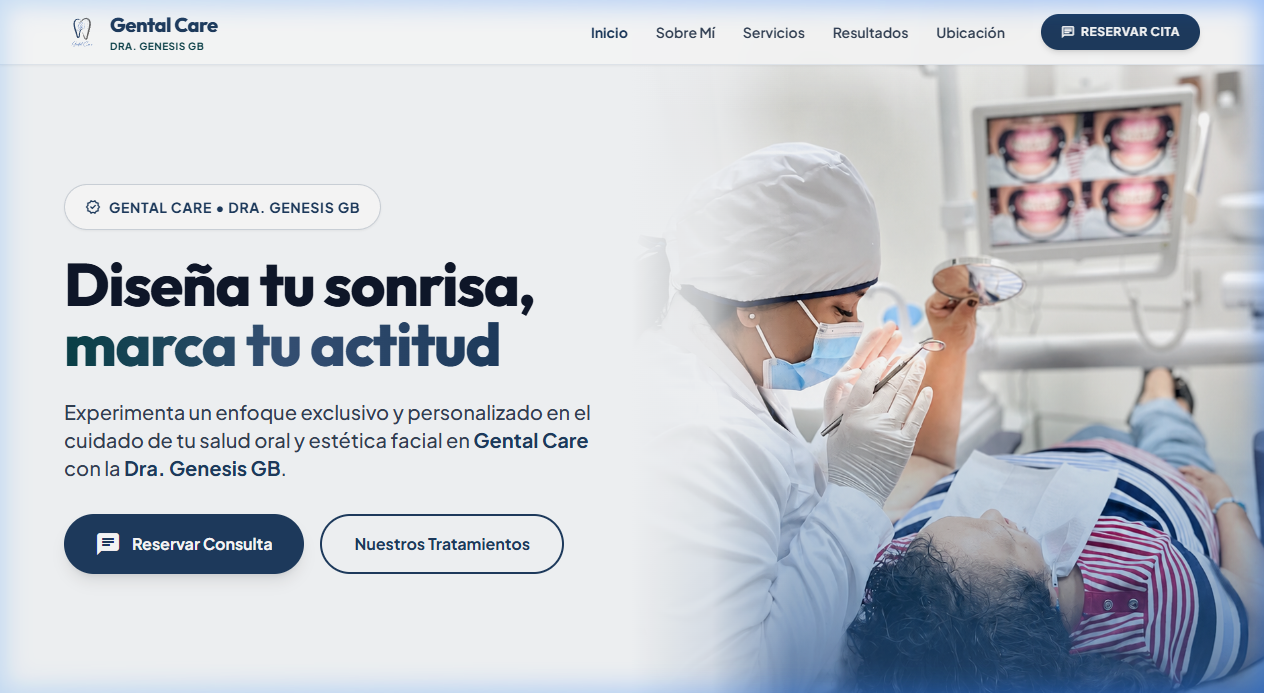
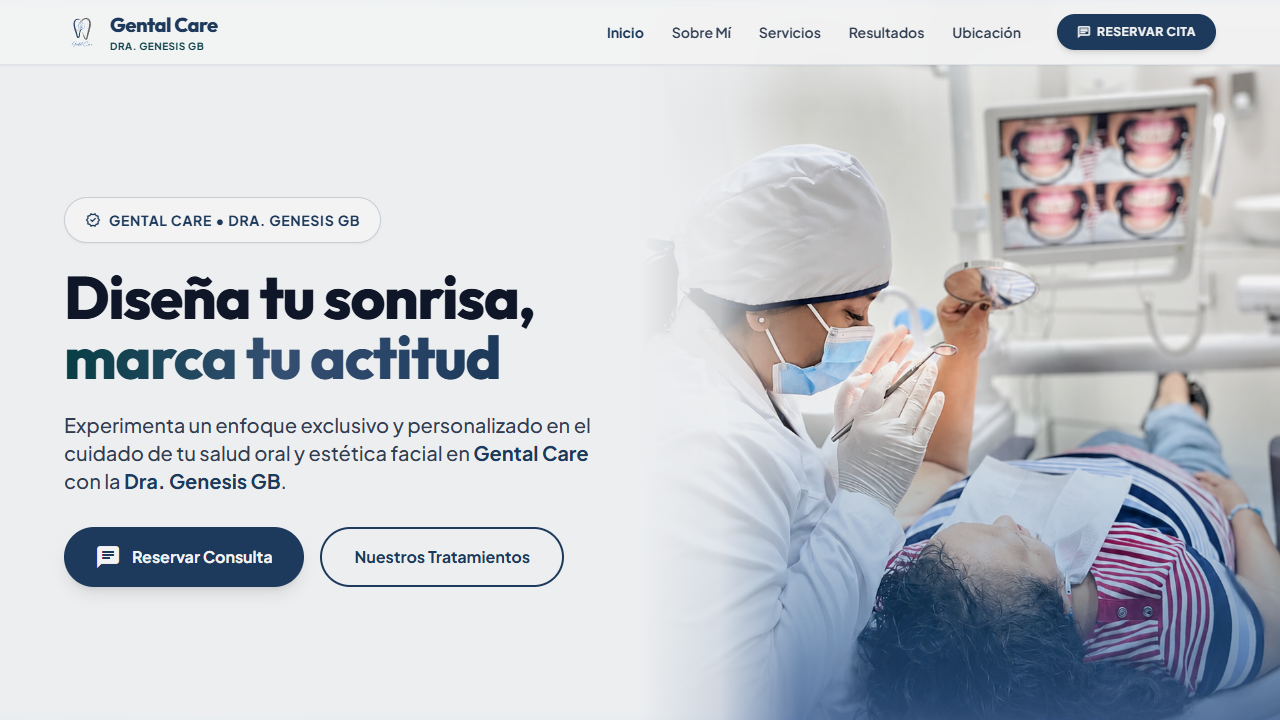
Update preview image without scrollbars and remove blockquote border in README

diff --git a/README.md b/README.md
@@ -1,6 +1,84 @@
 # Gental Care & Armonización Facial
 Plataforma web oficial e interactiva para **Gental Care & Armonización Facial**, dirigida por la **Dra. Genesis GB**. Diseñada con un enfoque estético de nivel premium, responsivo y orientado a la conversión de citas clínicas.
 
-<img width="1360" height="685" alt="image" src="https://github.com/user-attachments/assets/f128ca3b-7460-4787-b569-ab38c1d22625" />
+![Gental Care Hero Section](img/preview.png)
 
-> **Visita el sitio:** [https://gentalcare.vercel.app](https://gentalcare.vercel.app)
+**Visita el sitio:** [https://gentalcare.vercel.app](https://gentalcare.vercel.app)
+
+---
+
+## ✨ Características Destacadas
+
+- 🩺 **Presentación Profesional de la Especialista**: Sección dedicada con biografía, visión clínica y valores de la Dra. Genesis GB.
+- 💎 **Catálogo de Tratamientos Estéticos**: Tarjetas dinámicas e interactivas para odontología estética, armonización facial, diseño de sonrisa, carillas de resina/porcelana y profilaxis avanzada.
+- 🖼 **Galería de Resultados**: Muestra visual de casos reales de pacientes (Antes / Después).
+- 📲 **Reserva Inmediata de Citas**: Botones estratégicos de CTA (*Call to Action*) conectados directamente con la API de WhatsApp Business.
+- 📍 **Ubicación e Información de Contacto**: Integración con Google Maps, horarios de atención y redes sociales.
+- 📱 **Diseño 100% Responsivo**: Experiencia fluida adaptada a smartphones, tablets y pantallas de escritorio.
+- 🎨 **Estética Visual Premium**: Paleta de colores armónicos, tipografía limpia (Google Fonts), desenfoques *glassmorphism* y animaciones dinámicas al hacer scroll (*Scroll Reveal*).
+
+---
+
+## 🛠 Tecnologías Utilizadas
+
+| Tecnología | Descripción |
+|---|---|
+| **HTML5 Semántico** | Estructura optimizada para SEO, accesibilidad y rendimiento. |
+| **Tailwind CSS** | Framework CSS de utilidades para un diseño moderno y responsive. |
+| **Vanilla JavaScript (ES6+)** | Lógica de interactividad, menú móvil responsive, filtrado de galería y animaciones. |
+| **Google Fonts & Icons** | Tipografías *Outfit* e *Inter*, junto con *Material Symbols Outlined*. |
+| **Vercel** | Infraestructura de despliegue continuo en la nube. |
+
+---
+
+## 📁 Estructura del Proyecto
+
+```text
+Gental Care & Armonización facial/
+├── img/                       # Recursos gráficos e imágenes del proyecto
+│   ├── Caso1.jpg              # Galería de casos clínicos
+│   ├── Caso2.jpg
+│   ├── Caso3.jpg
+│   ├── Doctora.jpg            # Retrato de la Dra. Genesis GB
+│   ├── LogoFondoBlanco.svg    # Logotipo del consultorio (Fondo blanco / Favicon)
+│   ├── LogoTransparente.svg   # Logotipo del consultorio (Fondo transparente)
+│   ├── Portada.png            # Imagen principal de cabecera (Hero)
+│   └── preview.png            # Captura de pantalla para documentación del repositorio
+├── index.html                 # Estructura principal y marcado semántico
+├── script.js                  # Lógica interactiva de JavaScript
+├── style.css                  # Estilos personalizados y tokens de diseño
+└── README.md                  # Documentación oficial del proyecto
+```
+
+---
+
+## 🚀 Instalación y Ejecución Local
+
+Para clonar y explorar este proyecto en tu entorno local:
+
+1. **Clonar el repositorio:**
+   ```bash
+   git clone https://github.com/Its-Alexandder/gental-care.git
+   ```
+
+2. **Acceder al directorio:**
+   ```bash
+   cd gental-care
+   ```
+
+3. **Abrir en el navegador:**
+   - Puedes abrir directamente el archivo `index.html` en tu navegador predeterminado.
+   - O usar una extensión de servidor local como **Live Server** en VS Code.
+
+---
+
+## 👨💻 Autor y Créditos
+
+- **Profesional:** Dra. Genesis GB — *Gental Care & Armonización Facial*
+- **Desarrollador Web:** [Alexander Alfonso](https://github.com/Its-Alexandder)
+
+---
+
+<p align="center">
+  <sub>Desarrollado con ❤ para <b>Gental Care</b></sub>
+</p>
